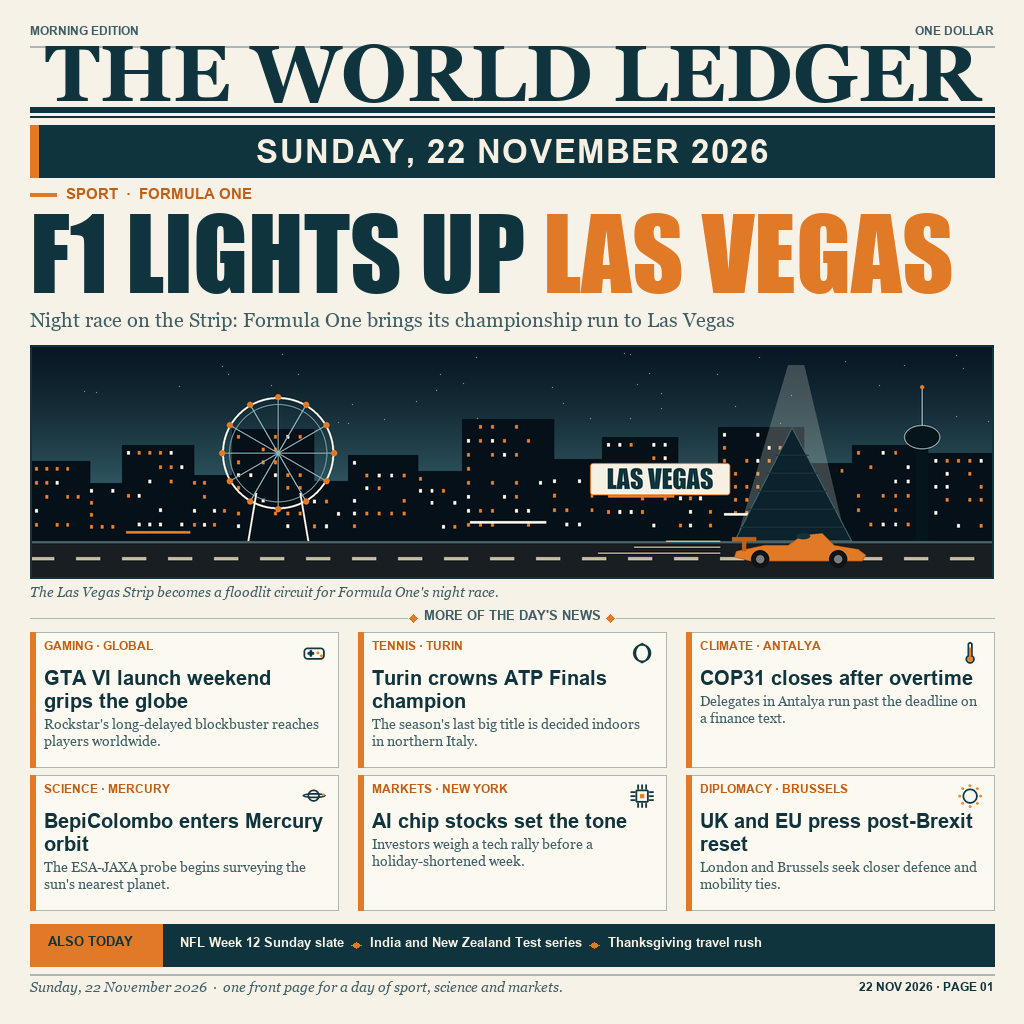
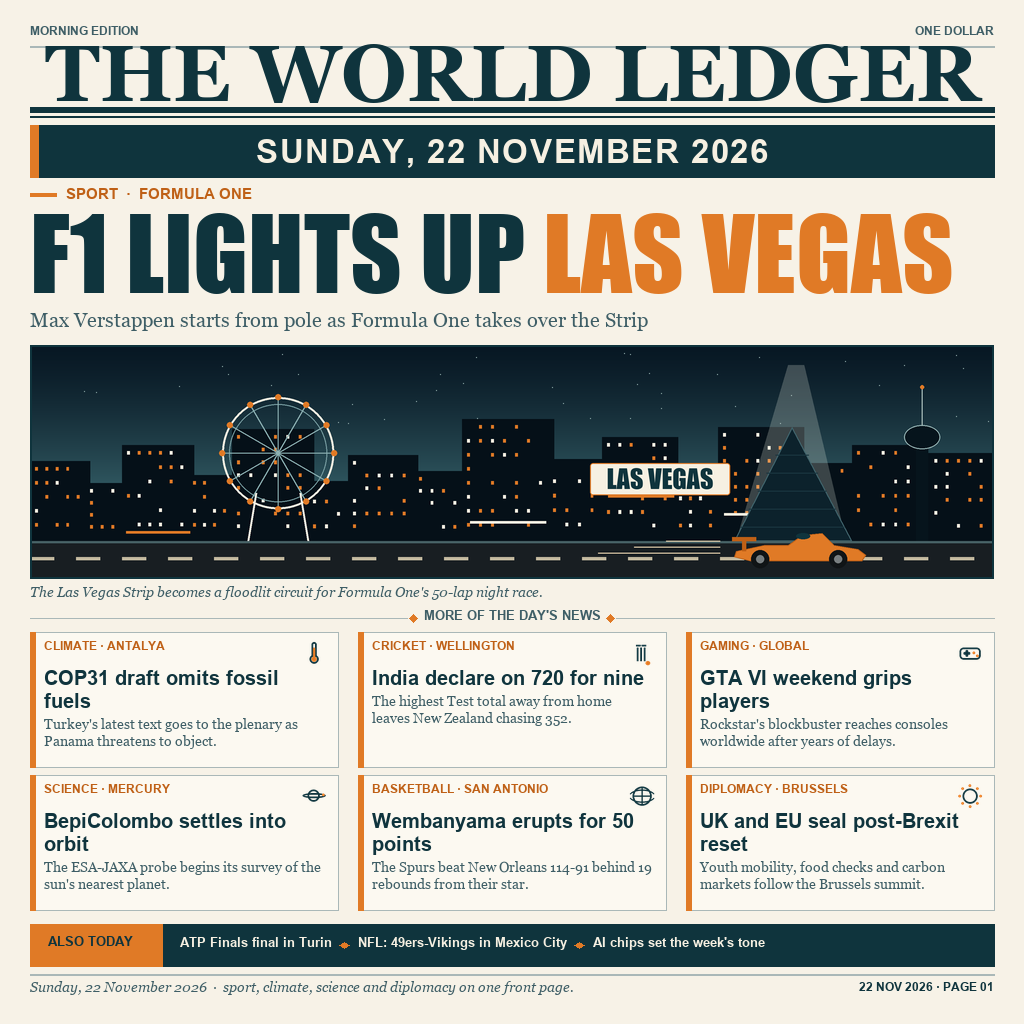
Rebuild the front page from the day's reported stories: Las Vegas pole, 720 for nine, Wembanyama's 50

diff --git a/README.md b/README.md
@@ -10,17 +10,23 @@ Pillow at build time and shipped as `entry.png`.
 
 ## The day on the page
 
-- **Sport · Formula One —** F1 lights up Las Vegas: the Strip becomes a floodlit circuit for the night race.
-- **Gaming · global —** GTA VI's launch weekend grips the globe as Rockstar's delayed blockbuster reaches players.
-- **Tennis · Turin —** the ATP Finals crown their champion indoors in northern Italy.
-- **Climate · Antalya —** COP31 closes after overtime, with delegates running past the deadline on a finance text.
-- **Science · Mercury —** the ESA-JAXA BepiColombo probe enters orbit and begins surveying the sun's nearest planet.
-- **Markets · New York —** AI chip stocks set the tone before a holiday-shortened US week.
-- **Diplomacy · Brussels —** the UK and EU press their post-Brexit reset on defence and mobility.
-- **Also today —** the NFL's Week 12 Sunday slate, India and New Zealand's Test series, and the Thanksgiving travel rush.
+- **Sport · Formula One —** F1 lights up Las Vegas: Max Verstappen starts from pole as the Strip becomes a
+  floodlit 50-lap circuit for the night race.
+- **Climate · Antalya —** COP31's latest draft omits fossil fuels; Panama threatens to object as the text
+  goes to the plenary.
+- **Cricket · Wellington —** India declare on 720 for nine, the highest Test total away from home, leaving
+  New Zealand 352 behind.
+- **Basketball · San Antonio —** Wembanyama scores 50 with 19 rebounds as the Spurs beat the Pelicans 114-91.
+- **Science · Mercury —** the ESA-JAXA BepiColombo probe settles into orbit and begins surveying the sun's
+  nearest planet.
+- **Gaming · global —** GTA VI's launch weekend grips players as Rockstar's blockbuster reaches consoles.
+- **Diplomacy · Brussels —** the UK and EU seal their post-Brexit reset: youth mobility, food checks and
+  linked carbon markets.
+- **Also today —** the ATP Finals final in Turin, NFL Week 12 with 49ers-Vikings in Mexico City, and AI chip
+  stocks setting the week's tone.
 
-Headlines are kept factual and non-graphic; the page carries no claimed results that are not yet known,
-so nothing on it can read as invented detail.
+Headlines are kept factual and non-graphic; the page claims no result that was not yet known at press time
+(the Las Vegas race starts from the grid, not a finish), so nothing on it reads as invented detail.
 
 ## How the entry works
 
@@ -36,13 +42,13 @@ mkdir -p out && MAKEFUN_OUTPUT_DIR=out node main.ts
 ```
 
 The image is a static build-time artefact, so both grader runs copy identical bytes
-(`sha256 22cccd1edb04f0bd9e6b046b84845b2252f8481e0d8d7b95e00565cbdbd08664`).
+(`sha256 010c5633c9044003b89905595c865570e7e70860f35d9e14171aaf90b1944b5d`).
 
 ## Layout
 
 | File | What it is |
 | --- | --- |
-| `entry.png` | the front page, 1024x1024 PNG, 169,120 bytes |
+| `entry.png` | the front page, 1024x1024 PNG, 170,423 bytes |
 | `main.ts` | the entry program: validate and copy the image |
 | `package.json` | ESM marker so `node main.ts` runs without warnings |
 | `.makefun/owner.json` | claim file naming the entry's payout wallet |
